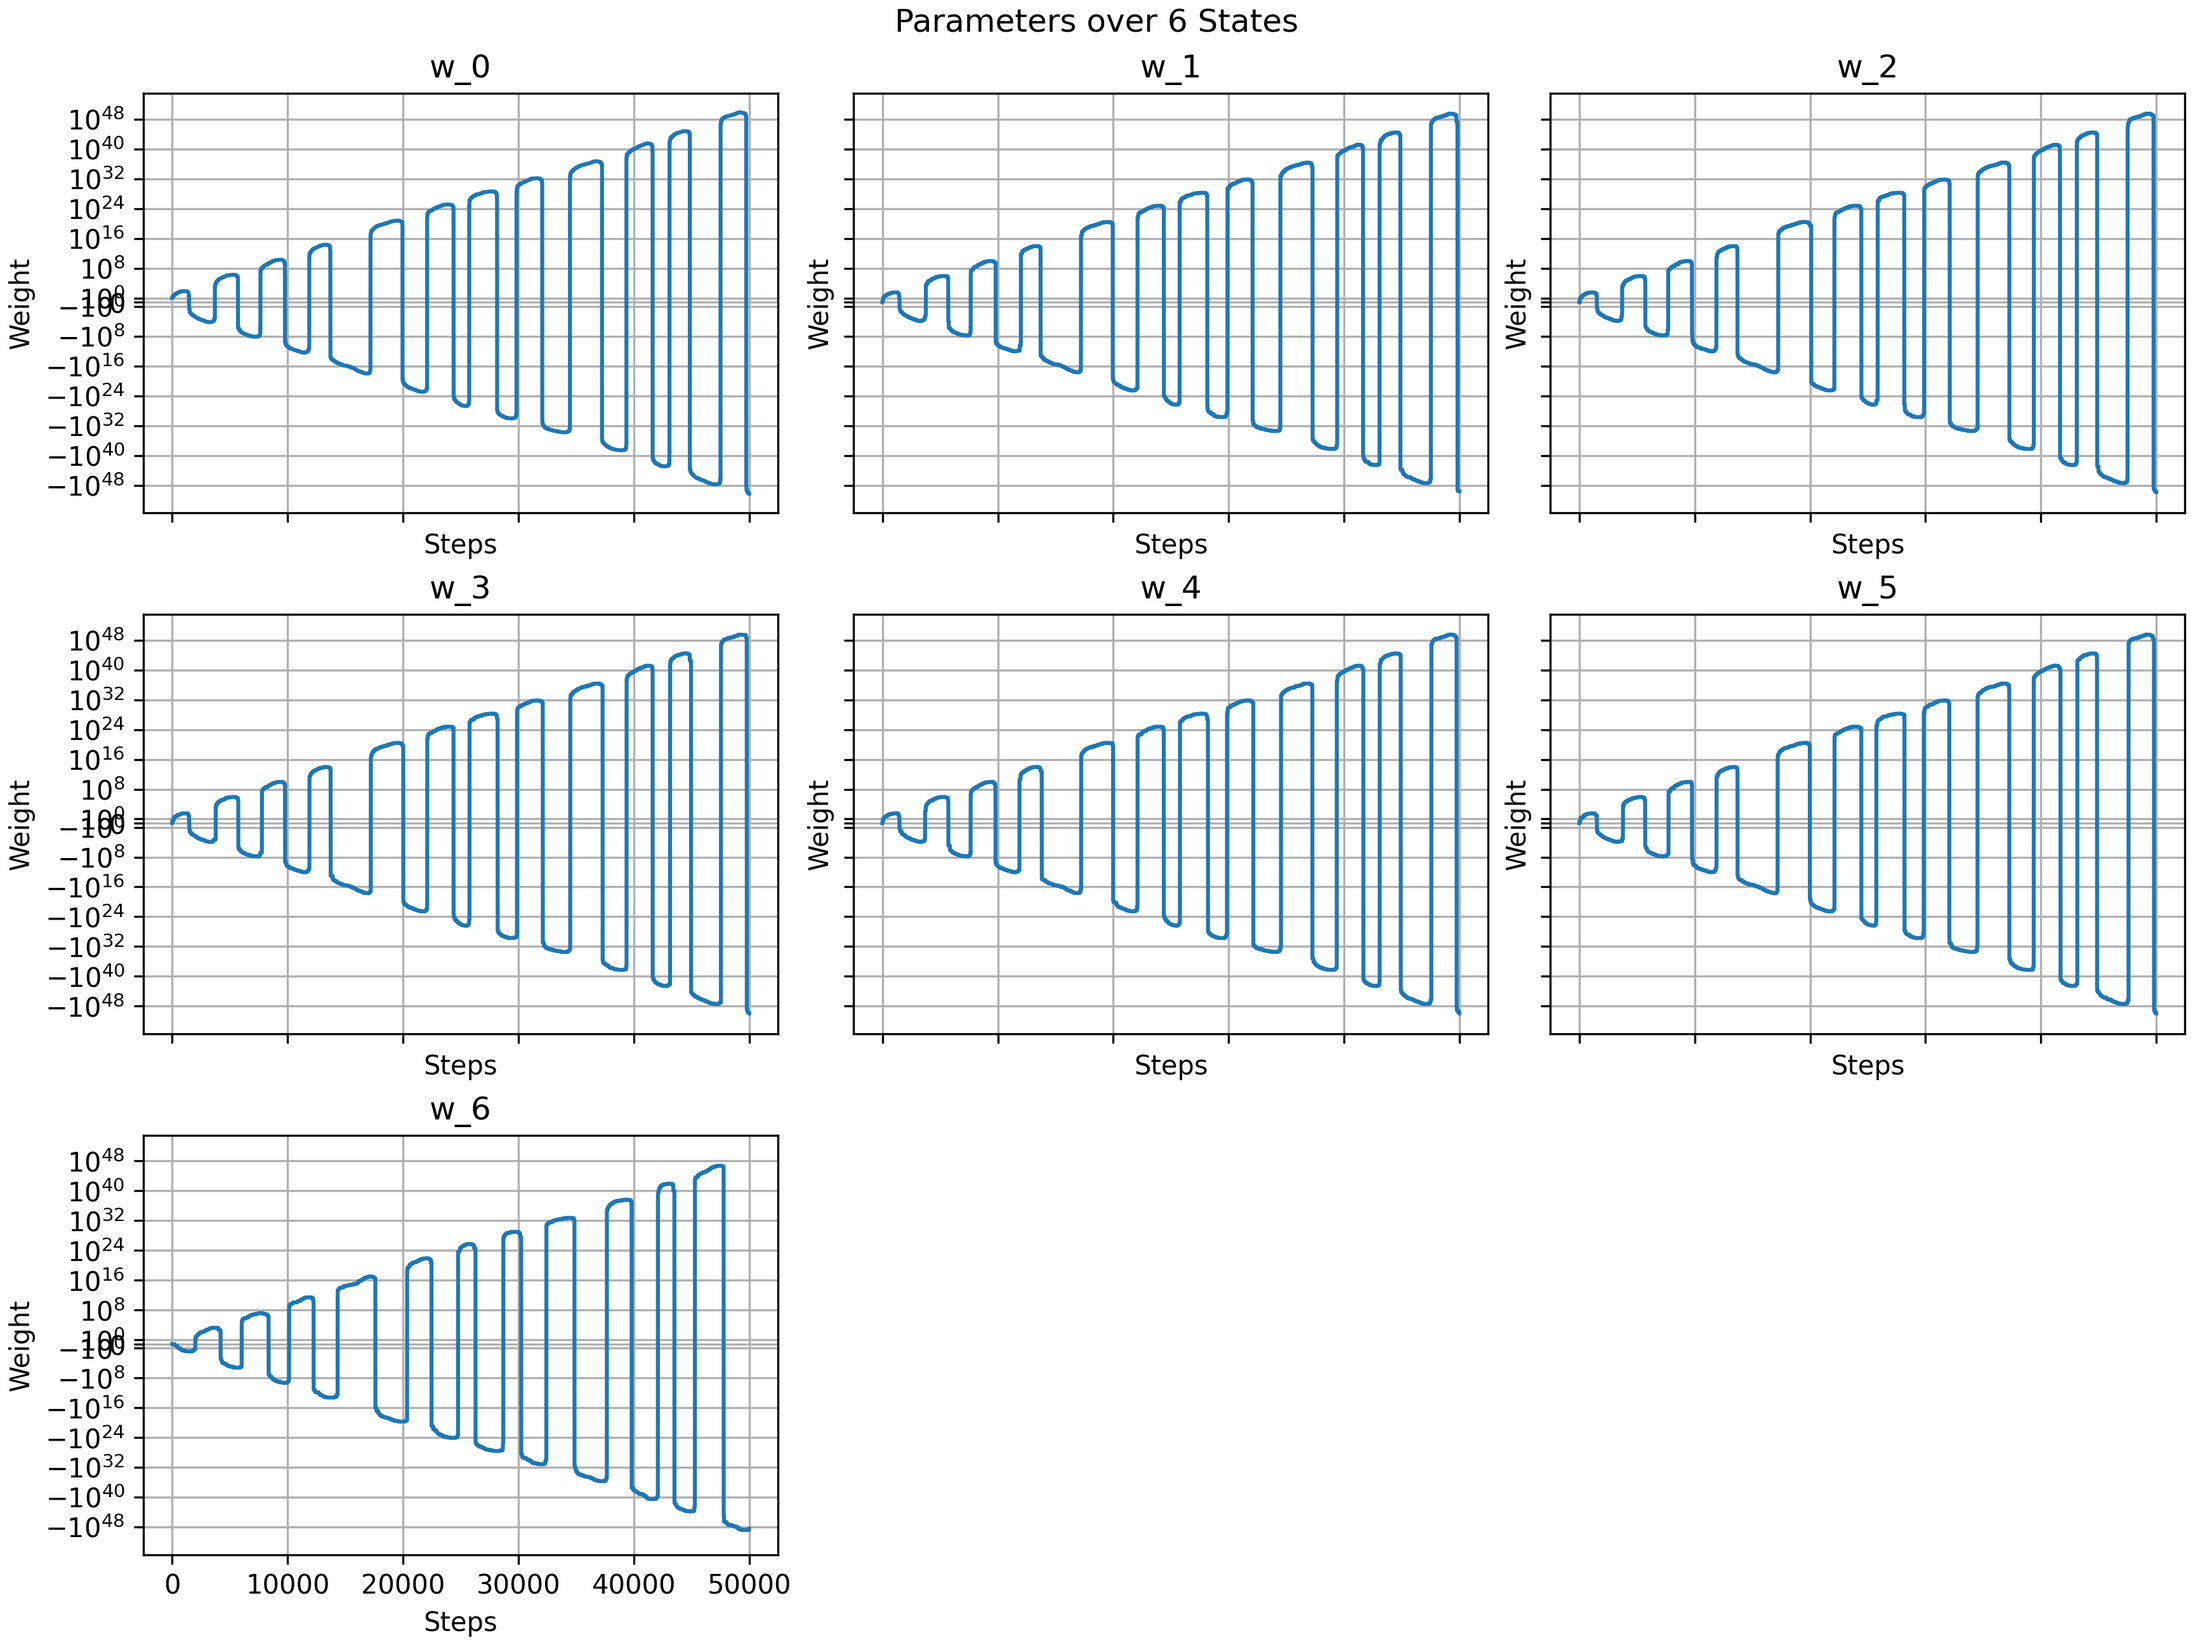
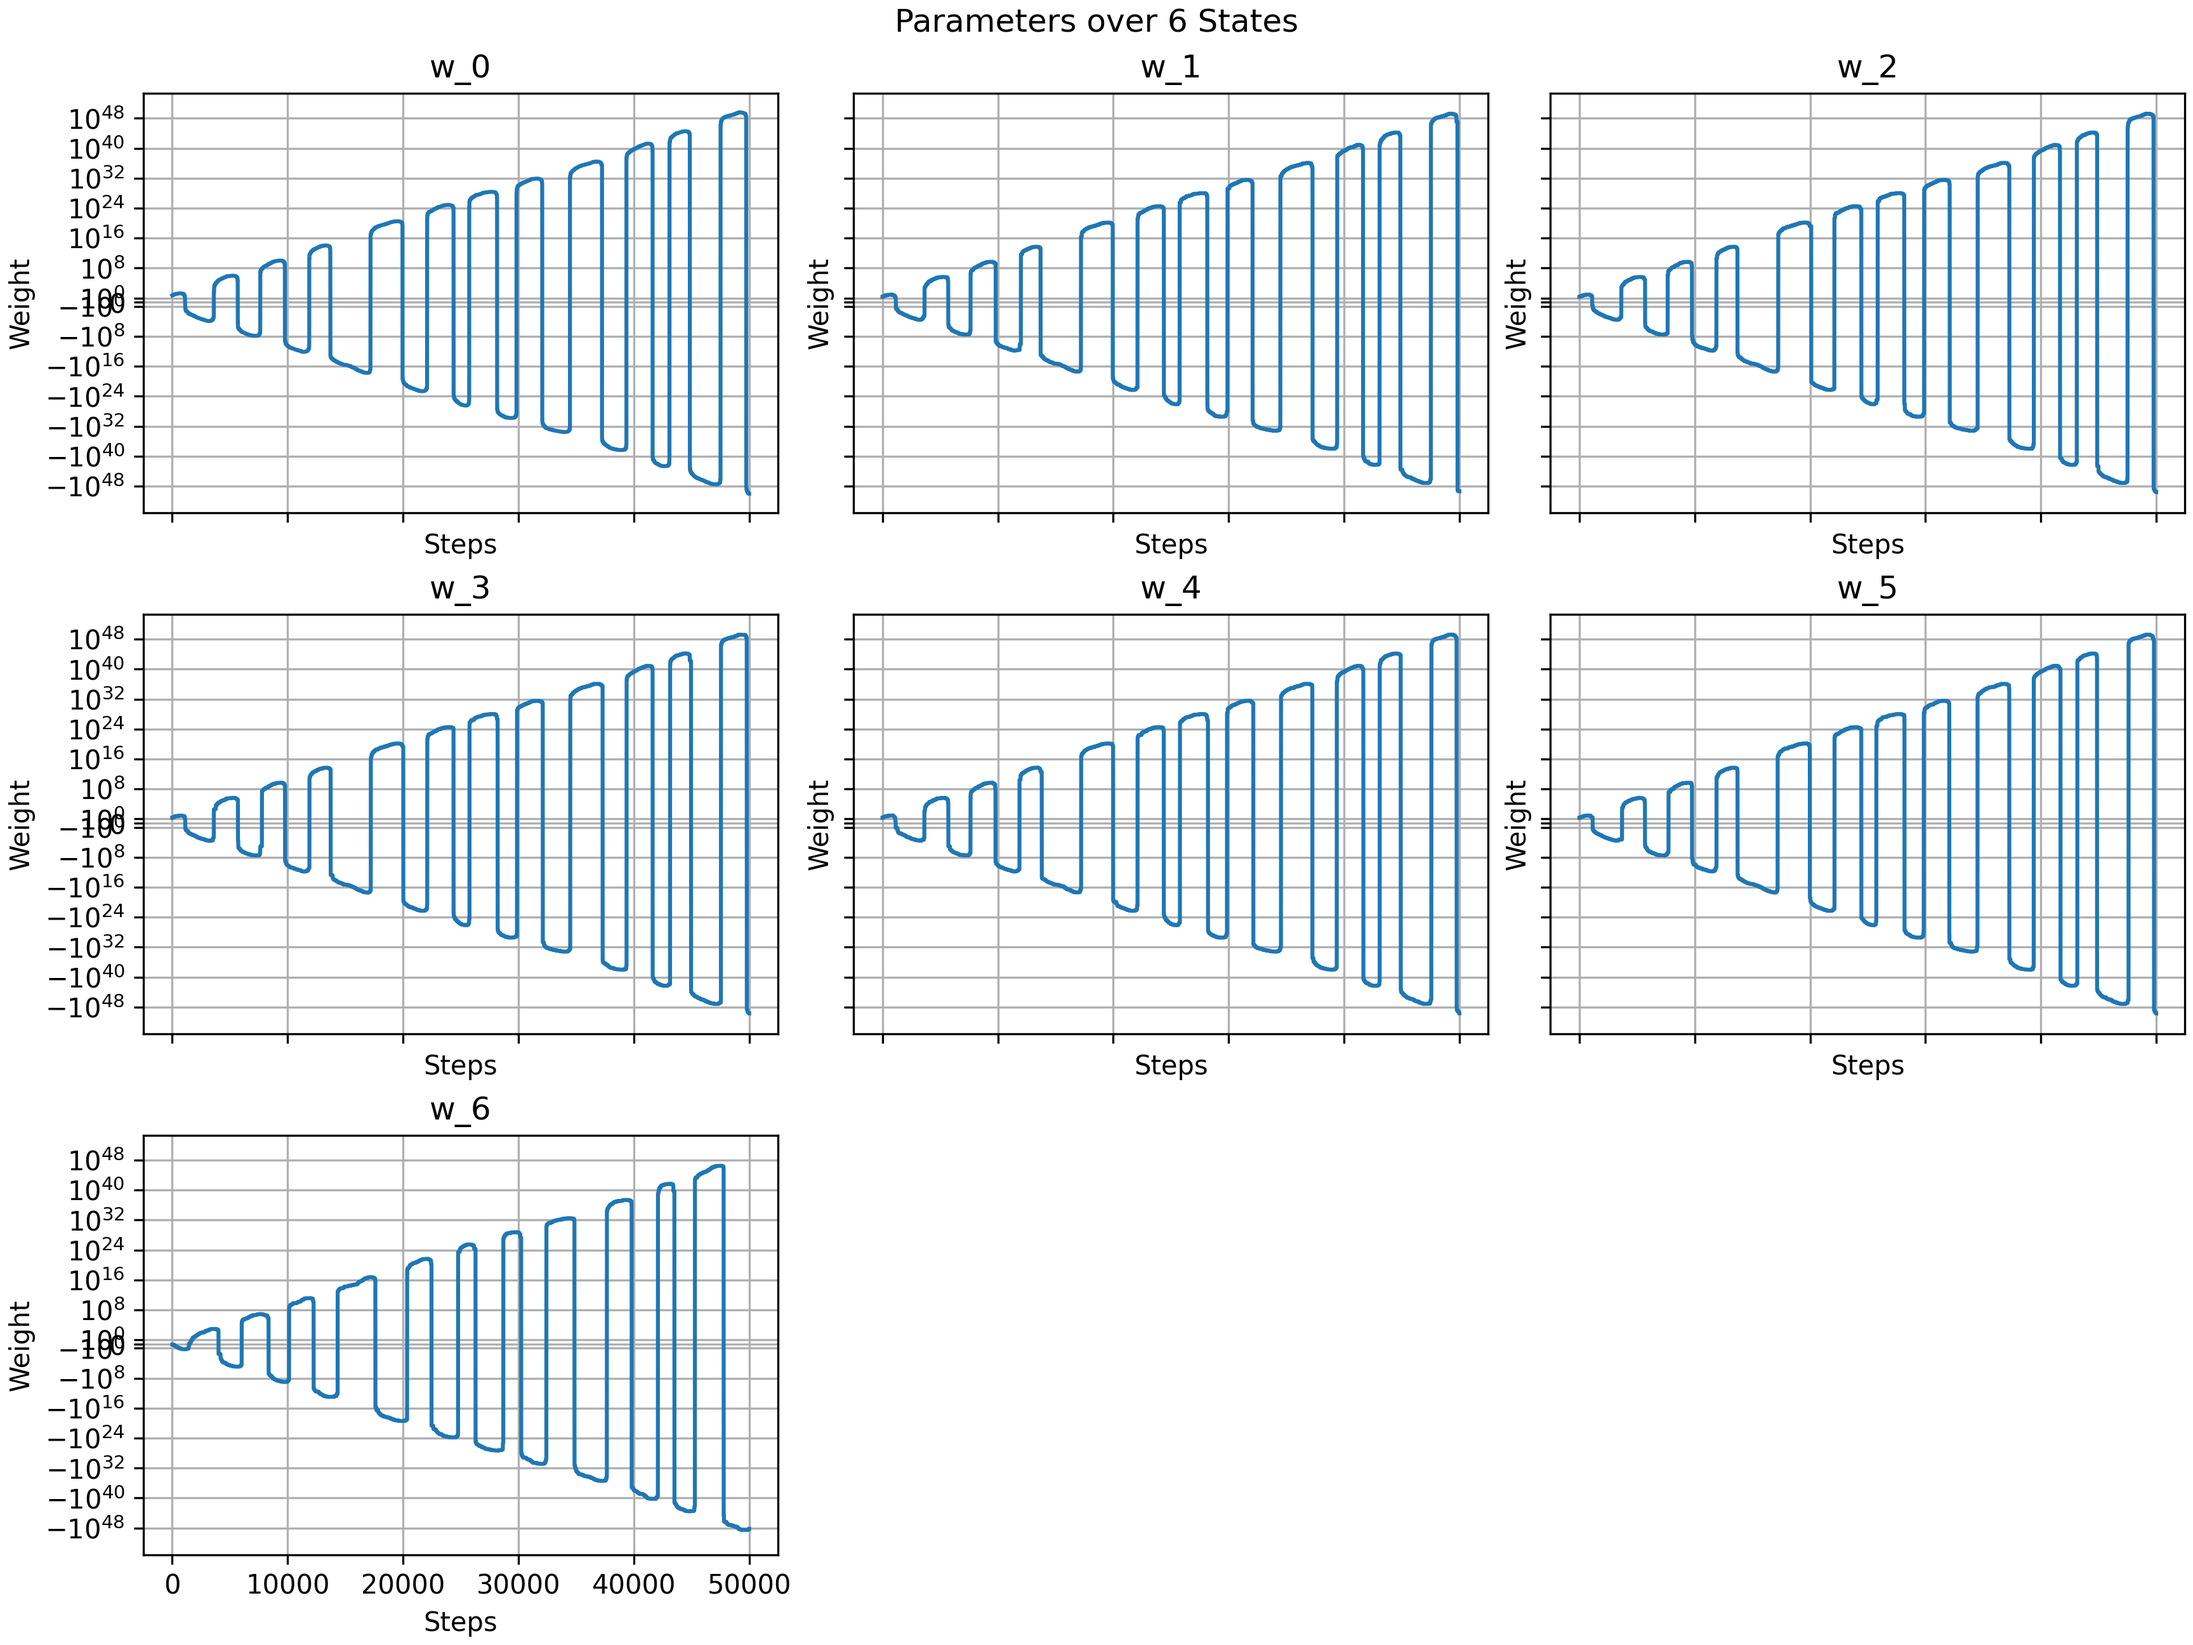
Changed initial weights

diff --git a/src/linear_approximation.py b/src/linear_approximation.py
@@ -23,8 +23,12 @@ class LAAgent:
         self.G[id_indices, id_indices] = 2
         self.G[1:, 0] = 1
 
-        self.w = np.zeros(self.no_states + 1)
-        self.w[0] = 1
+        self.x = 1
+        self.w = np.zeros(self.no_states + 1) + 2
+        self.w[0] = 5
+        self.w[-1] = 10 * (self.gamma - 1)
+        self.w *= self.x
+        print(self.w)
 
         self._w_history = []
 
